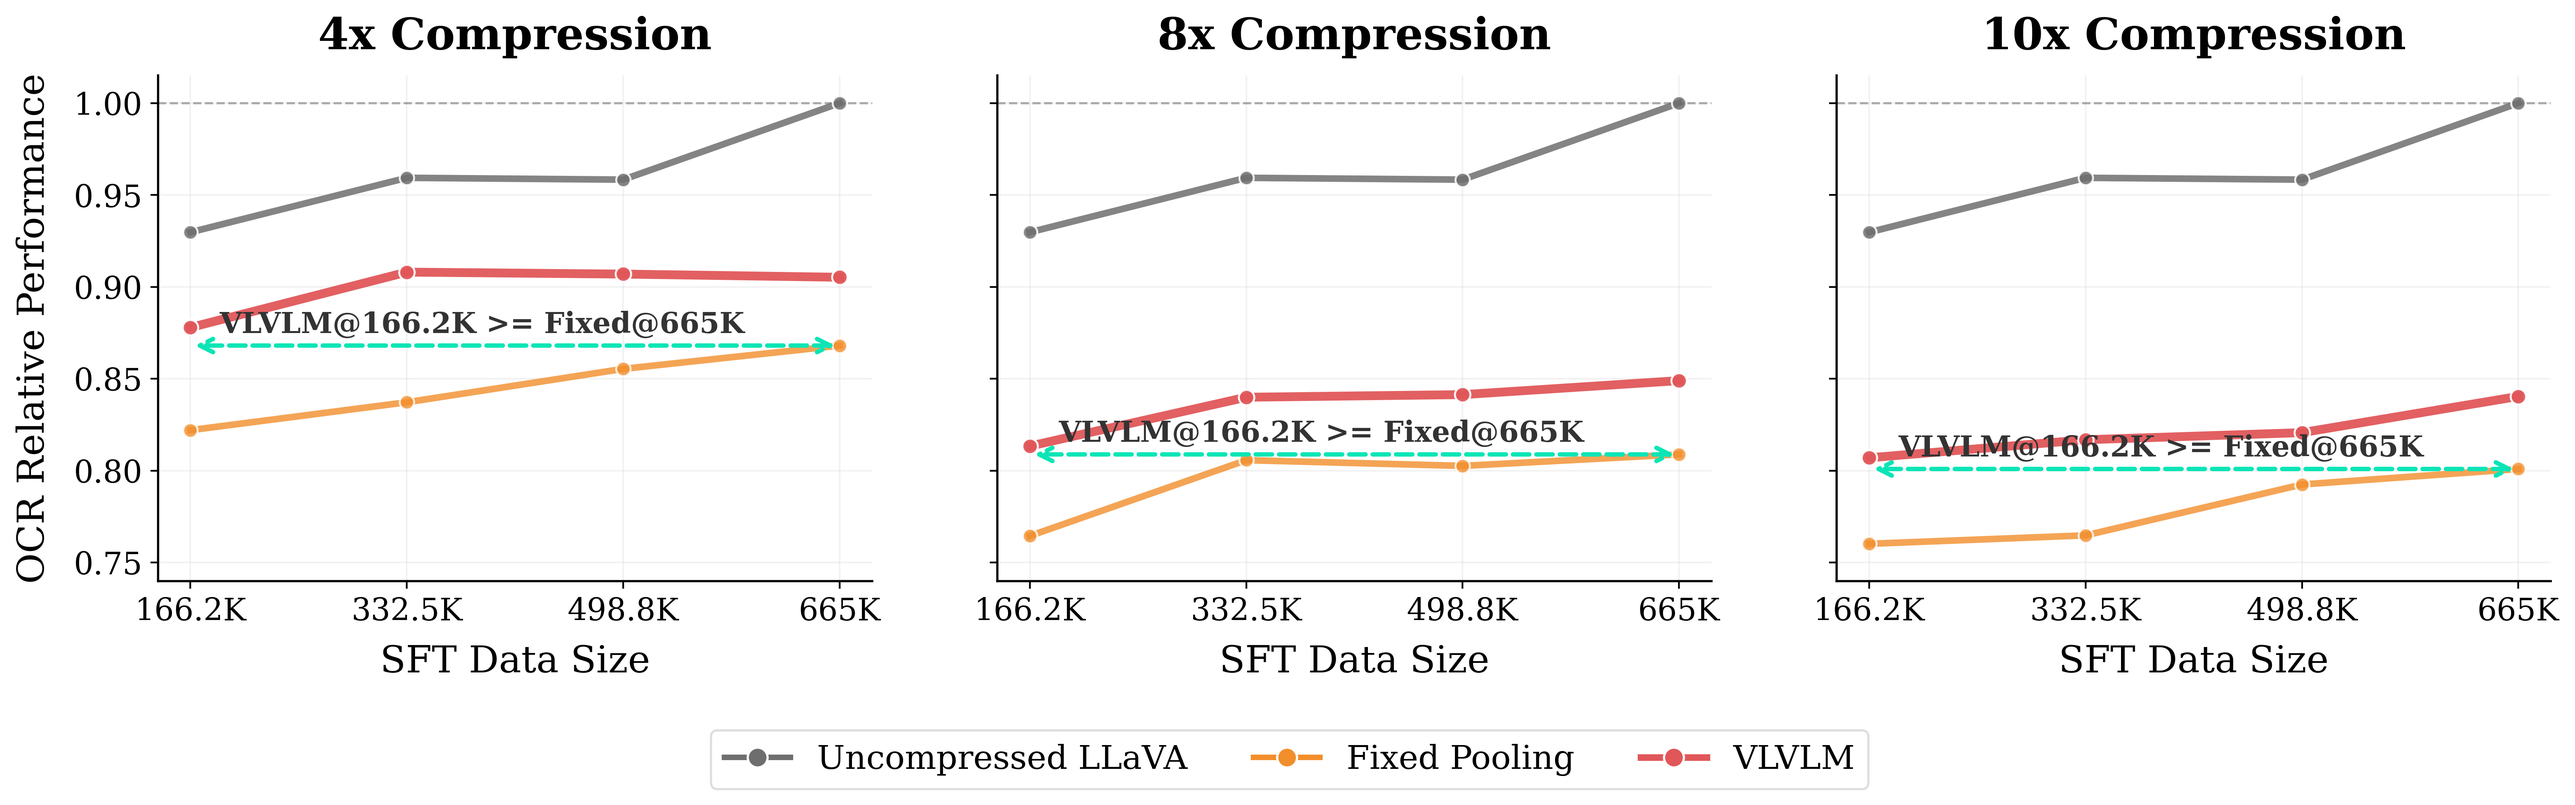
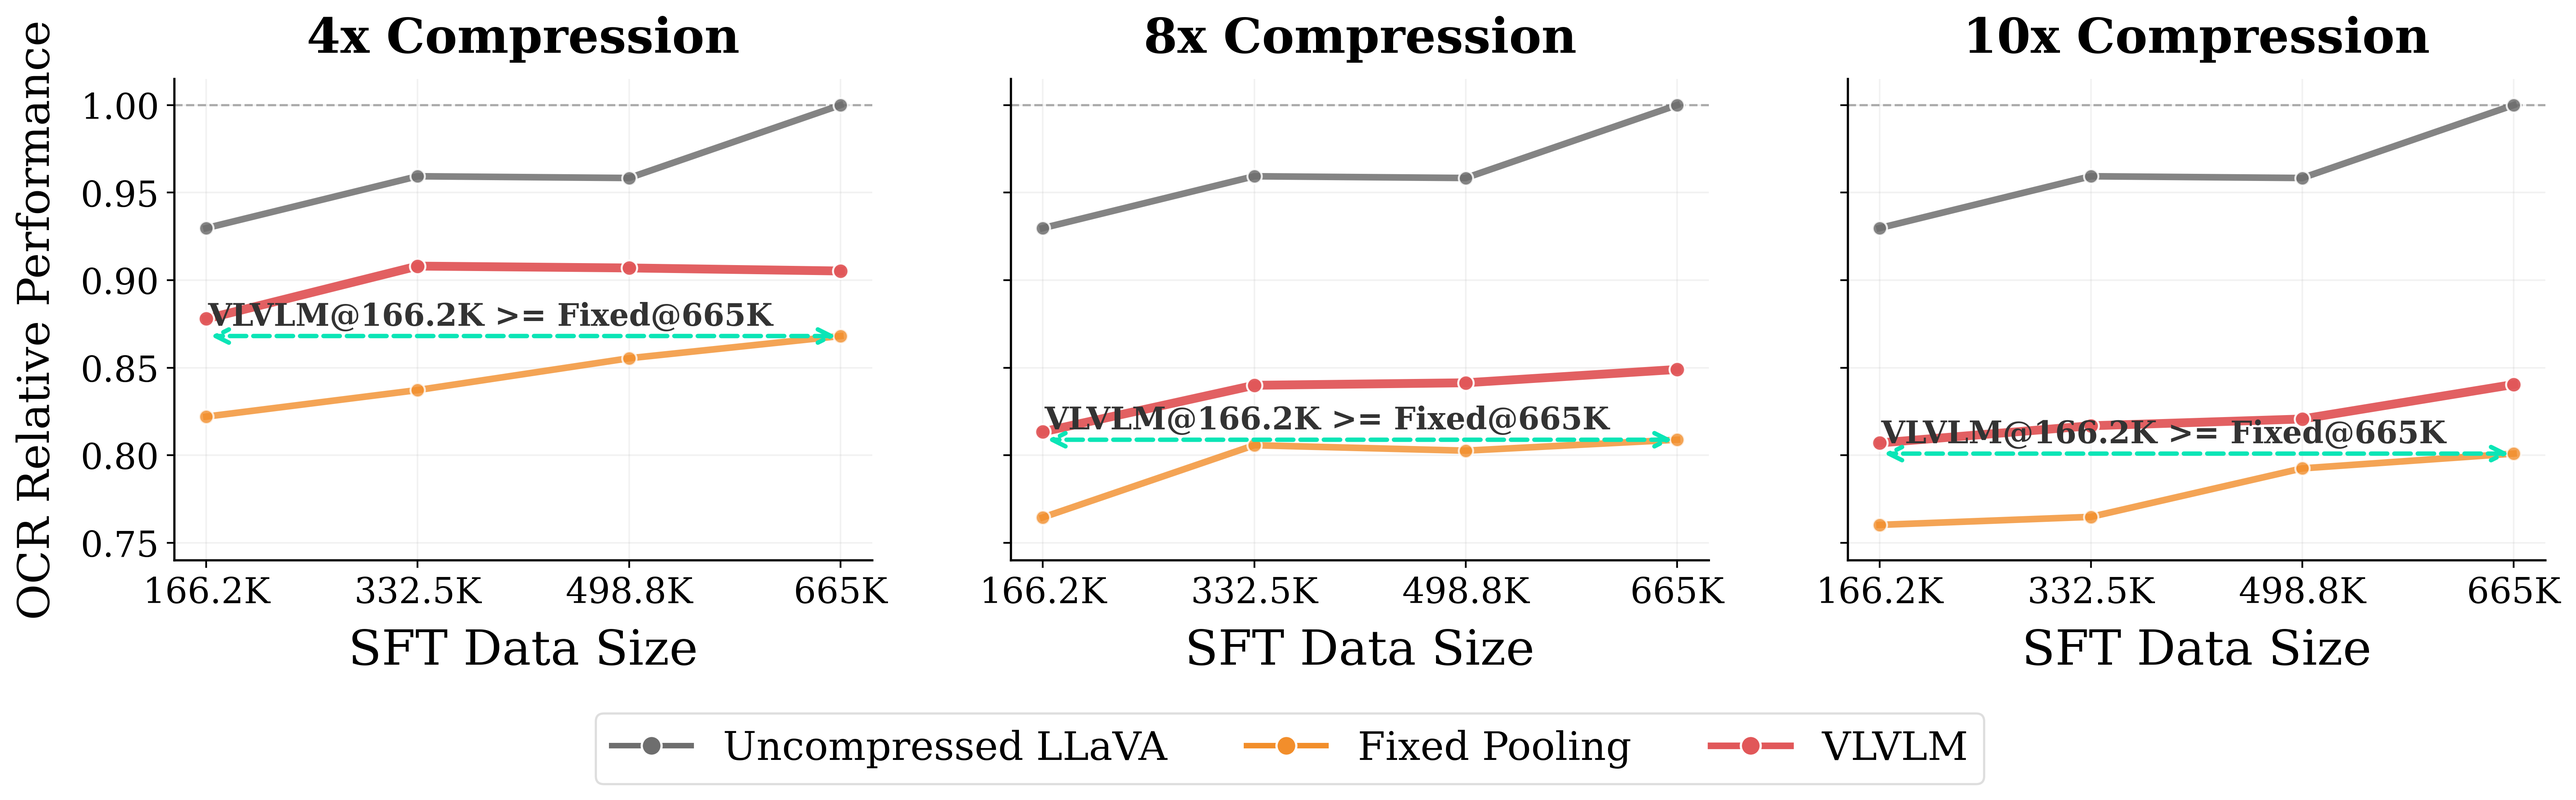
final touch of figures

diff --git a/src/scaling_analysis.py b/src/scaling_analysis.py
@@ -62,7 +62,7 @@ def setup_plot_style():
         "axes.titlesize": 15,
         "axes.labelsize": 13,
 
-        "legend.fontsize": 11,
+        "legend.fontsize": 14,
 
         "xtick.labelsize": 10,
         "ytick.labelsize": 10,
@@ -143,11 +143,11 @@ def add_data_efficiency_annotation(
     ax.annotate(
         f"VLVLM@{drip_k:.1f}K >= Fixed@{fixed_k:.0f}K",
         xy=(midpoint, y),
-        xytext=(-15, 3),
+        xytext=(-15, 2),
         textcoords="offset points",
         ha="center",
         va="bottom",
-        fontsize=13,
+        fontsize=14,
         fontweight="bold",
         color="#333333",
     )
@@ -505,21 +505,21 @@ def plot_scaling_grid(df):
 
         ax.set_title(
             f"{compression} Compression",
-            fontsize=20,
+            fontsize=22,
             fontweight="bold",
             pad=12,
         )
 
         ax.set_xlabel(
             "SFT Data Size",
-            fontsize=17,
+            fontsize=22,
             labelpad=8,
         )
 
         # Bigger ticks
         ax.tick_params(
             axis="both",
-            labelsize=14,
+            labelsize=16,
         )
 
     # ========================================================
@@ -528,7 +528,7 @@ def plot_scaling_grid(df):
 
     axes[0].set_ylabel(
         "OCR Relative Performance",
-        fontsize=17,
+        fontsize=20,
         labelpad=10,
     )
 
@@ -596,7 +596,7 @@ def plot_scaling_grid(df):
         handles=legend_handles,
         loc="lower center",
         ncol=3,
-        fontsize=15,
+        fontsize=18,
         frameon=True,
         fancybox=True,
         framealpha=0.95,

diff --git a/src/hnet_ablation_analysis.py b/src/hnet_ablation_analysis.py
@@ -17,10 +17,10 @@ delta = drip - hnet
 # ---------------------------------------------------------
 mpl.rcParams.update({
     "font.family": "serif",
-    "font.size": 8.5,
-    "axes.labelsize": 8.5,
-    "xtick.labelsize": 8,
-    "ytick.labelsize": 8,
+    "font.size": 12,
+    "axes.labelsize": 12,
+    "xtick.labelsize": 10.7,
+    "ytick.labelsize": 11,
     "axes.linewidth": 0.7,
     "xtick.major.width": 0.7,
     "ytick.major.width": 0.7,
@@ -109,7 +109,7 @@ for bar, d in zip(bars, delta):
         f"{d:+.2f}",
         ha="center",
         va=va,
-        fontsize=8,
+        fontsize=10,
     )
 
 # ---------------------------------------------------------
